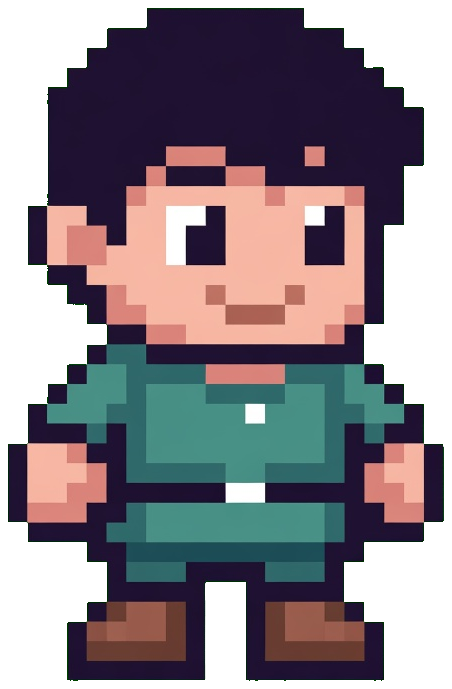
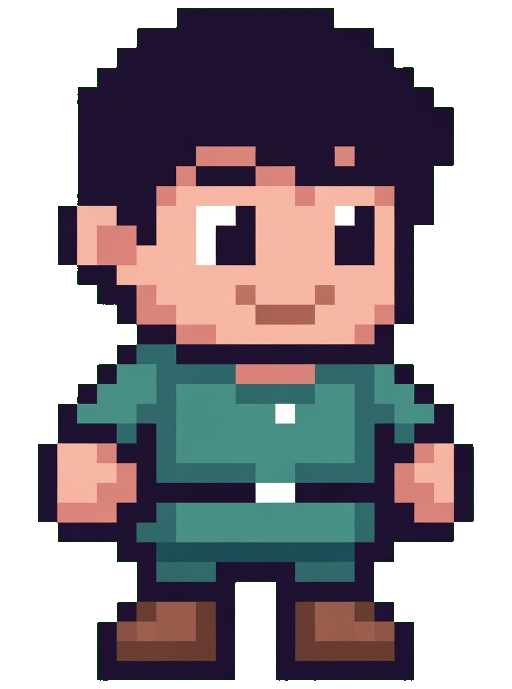
Refactor pet size handling and update image dimensions
- Adjusted the pet size calculation in overlay.ts to scale based on shape preference.
- Updated image dimensions in preview.ts to reflect new size logic for adult pets.
- Replaced old image mappings in key-pet.py with new mappings for anime and adult pet frames.
- Added scripts to check alpha transparency in pet images and unify frame sizes for consistency.
- Updated several pet image assets to ensure they align with the new specifications.

diff --git a/desktop/main.ts b/desktop/main.ts
@@ -321,8 +321,9 @@ function petConfigPayload(pet = readPet()) {
 const PET_MARK_PAD = 32;
 const PET_BUBBLE_SLOT = 84;
 
-function petBox(size = readPet().size, _bubble = false): { width: number; height: number } {
-  const side = Math.max(72, Math.min(200, size));
+function petBox(size = readPet().size, shape = readPet().shape): { width: number; height: number } {
+  const grown = shape === 'adult' ? Math.round(size * 1.6) : size;
+  const side = Math.max(72, Math.min(280, grown));
   return { width: side + PET_MARK_PAD, height: side + PET_MARK_PAD + PET_BUBBLE_SLOT };
 }
 
@@ -333,18 +334,13 @@ function defaultPetPoint(): { x: number; y: number } {
 }
 
 function clampPetPoint(x: number, y: number, box = petBox()): { x: number; y: number } {
-  const areas = screen.getAllDisplays().map((display) => display.workArea);
-  const visible = areas.some(
-    (area) =>
-      x + box.width > area.x + 24 &&
-      y + box.height > area.y + 24 &&
-      x < area.x + area.width - 24 &&
-      y < area.y + area.height - 24,
-  );
-  if (visible) {
-    return { x: Math.round(x), y: Math.round(y) };
-  }
-  return defaultPetPoint();
+  const area = screen.getPrimaryDisplay().workArea;
+  const maxX = area.x + Math.max(0, area.width - box.width);
+  const maxY = area.y + Math.max(0, area.height - box.height);
+  return {
+    x: Math.round(Math.min(Math.max(x, area.x), maxX)),
+    y: Math.round(Math.min(Math.max(y, area.y), maxY)),
+  };
 }
 
 function fitPetWindow(opts?: { bubble?: boolean; size?: number }): void {
@@ -352,7 +348,8 @@ function fitPetWindow(opts?: { bubble?: boolean; size?: number }): void {
   if (!win || win.isDestroyed()) {
     return;
   }
-  const next = petBox(opts?.size ?? readPet().size);
+  const pet = readPet();
+  const next = petBox(opts?.size ?? pet.size, pet.shape);
   const [x, y] = win.getPosition();
   const { width, height } = win.getBounds();
   const origin = clampPetPoint(
@@ -378,8 +375,8 @@ function fitPetWindow(opts?: { bubble?: boolean; size?: number }): void {
 
 function createPetWindow(): BrowserWindow {
   const pet = readPet();
-  const box = petBox(pet.size);
-  const origin = clampPetPoint(pet.x ?? defaultPetPoint().x, pet.y ?? defaultPetPoint().y, box);
+  const box = petBox(pet.size, pet.shape);
+  const origin = defaultPetPoint();
   const win = new BrowserWindow({
     width: box.width,
     height: box.height,
@@ -422,7 +419,24 @@ function savePetBounds(): void {
     return;
   }
   const [x, y] = win.getPosition();
-  writeState({ pet: { ...readPet(), x, y } });
+  const box = win.getBounds();
+  const origin = clampPetPoint(x, y, { width: box.width, height: box.height });
+  writeState({ pet: { ...readPet(), x: origin.x, y: origin.y } });
+}
+
+function parkPetCorner(): void {
+  const win = petWindow;
+  if (!win || win.isDestroyed()) {
+    return;
+  }
+  const box = petBox();
+  const origin = defaultPetPoint();
+  win.setBounds({
+    x: origin.x,
+    y: origin.y,
+    width: box.width,
+    height: box.height,
+  });
 }
 
 function showPetWindow(): void {
@@ -435,7 +449,8 @@ function showPetWindow(): void {
     petWindow = createPetWindow();
   }
   petWindow.showInactive();
-  fitPetWindow({ size: pet.size, bubble: true });
+  petWindow.setAlwaysOnTop(true, 'floating');
+  parkPetCorner();
   petWindow.webContents.send('pet-config', petConfigPayload(pet));
 }
 

diff --git a/desktop/pet/overlay.ts b/desktop/pet/overlay.ts
@@ -185,7 +185,8 @@ function applySpriteFrame(): void {
 function applyLook(): void {
   const fill = resolvePetBodyInk(prefs.color);
   const tone = resolvePetEyeInk(prefs.color);
-  document.documentElement.style.setProperty('--pet-size', `${prefs.size}px`);
+  const display = prefs.shape === 'adult' ? Math.round(prefs.size * 1.6) : prefs.size;
+  document.documentElement.style.setProperty('--pet-size', `${display}px`);
   document.documentElement.style.setProperty('--pet-body', fill);
   document.documentElement.style.setProperty('--pet-eye', tone.eye);
   document.documentElement.style.setProperty('--pet-pupil', tone.pupil);

diff --git a/desktop/pet.js b/desktop/pet.js
@@ -184,7 +184,8 @@
   function applyLook() {
     const fill = resolvePetBodyInk(prefs.color);
     const tone = resolvePetEyeInk(prefs.color);
-    document.documentElement.style.setProperty("--pet-size", `${prefs.size}px`);
+    const display = prefs.shape === "adult" ? Math.round(prefs.size * 1.6) : prefs.size;
+    document.documentElement.style.setProperty("--pet-size", `${display}px`);
     document.documentElement.style.setProperty("--pet-body", fill);
     document.documentElement.style.setProperty("--pet-eye", tone.eye);
     document.documentElement.style.setProperty("--pet-pupil", tone.pupil);

diff --git a/desktop/pet.css b/desktop/pet.css
@@ -54,6 +54,7 @@ body {
   height: 100%;
   overflow: visible;
   object-fit: contain;
+  object-position: center bottom;
   pointer-events: none;
 }
 
@@ -72,7 +73,7 @@ body {
 #mark.is-pixel img {
   image-rendering: pixelated;
   image-rendering: crisp-edges;
-  animation: bit-idle 0.7s steps(2, end) infinite;
+  animation: bit-idle 1.2s ease-in-out infinite;
 }
 
 @keyframes live2d-idle {
@@ -86,11 +87,12 @@ body {
 }
 
 @keyframes bit-idle {
-  0% {
+  0%,
+  100% {
     transform: translateY(0);
   }
-  100% {
-    transform: translateY(-4px);
+  50% {
+    transform: translateY(-3px);
   }
 }
 

diff --git a/plugin/src/webview/pet/preview.ts b/plugin/src/webview/pet/preview.ts
@@ -10,8 +10,9 @@ export function petMarkPreview(opts: { shape: string; color: string; size: numbe
     const img = document.createElement('img');
     img.src = `./pet-assets/${opts.shape}-idle.png`;
     img.alt = opts.shape;
-    img.style.width = `${opts.size}px`;
-    img.style.height = `${opts.size}px`;
+    const show = opts.shape === 'adult' ? Math.round(opts.size * 1.35) : opts.size;
+    img.style.width = `${show}px`;
+    img.style.height = `${show}px`;
     img.style.objectFit = 'contain';
     if (opts.shape === 'pixel') {
       img.style.imageRendering = 'pixelated';

diff --git a/scripts/unify-pet-frames.py b/scripts/unify-pet-frames.py
@@ -1,0 +1,41 @@
+from pathlib import Path
+
+from PIL import Image
+
+ROOT = Path(__file__).resolve().parents[1]
+DIRS = [ROOT / "resources" / "pet", ROOT / "desktop" / "pet-assets"]
+SETS = [
+    ("anime-idle.png", "anime-blink.png", "anime-think.png"),
+    ("adult-idle.png", "adult-blink.png", "adult-think.png"),
+    ("pixel-idle.png", "pixel-think.png"),
+]
+
+
+def unify(folder: Path, names: tuple[str, ...]) -> None:
+    frames = []
+    for name in names:
+        path = folder / name
+        if not path.exists():
+            raise SystemExit(f"missing {path}")
+        frames.append((name, Image.open(path).convert("RGBA")))
+    width = max(im.width for _, im in frames)
+    height = max(im.height for _, im in frames)
+    for name, im in frames:
+        canvas = Image.new("RGBA", (width, height), (0, 0, 0, 0))
+        x = (width - im.width) // 2
+        y = height - im.height
+        canvas.paste(im, (x, y), im)
+        canvas.save(folder / name)
+        print(f"{folder.name}/{name} -> {width}x{height}")
+
+
+def main() -> None:
+    for folder in DIRS:
+        if not folder.is_dir():
+            continue
+        for names in SETS:
+            unify(folder, names)
+
+
+if __name__ == "__main__":
+    main()

diff --git a/scripts/key-pet.py b/scripts/key-pet.py
@@ -9,14 +9,14 @@ SRC = Path(
 )
 OUT = ROOT / "resources" / "pet"
 MAP = {
-    "3.jpg": "anime-idle.png",
-    "7.jpg": "anime-blink.png",
-    "6.jpg": "anime-think.png",
     "4.jpg": "pixel-idle.png",
     "5.jpg": "pixel-think.png",
-    "8.jpg": "adult-idle.png",
-    "9.jpg": "adult-blink.png",
-    "10.jpg": "adult-think.png",
+    "23.jpg": "anime-idle.png",
+    "24.jpg": "anime-blink.png",
+    "25.jpg": "anime-think.png",
+    "18.jpg": "adult-idle.png",
+    "21.jpg": "adult-blink.png",
+    "22.jpg": "adult-think.png",
 }
 
 

diff --git a/scripts/check-pet-alpha.py b/scripts/check-pet-alpha.py
@@ -1,0 +1,9 @@
+from pathlib import Path
+from PIL import Image
+
+root = Path(__file__).resolve().parents[1] / "desktop" / "pet-assets"
+for name in sorted(root.glob("*.png")):
+    im = Image.open(name).convert("RGBA")
+    pix = list(im.getdata())
+    opaque = sum(1 for p in pix if p[3] > 32)
+    print(f"{name.name:20} {im.size} opaque={opaque} ratio={opaque / max(1, len(pix)):.3f}")
